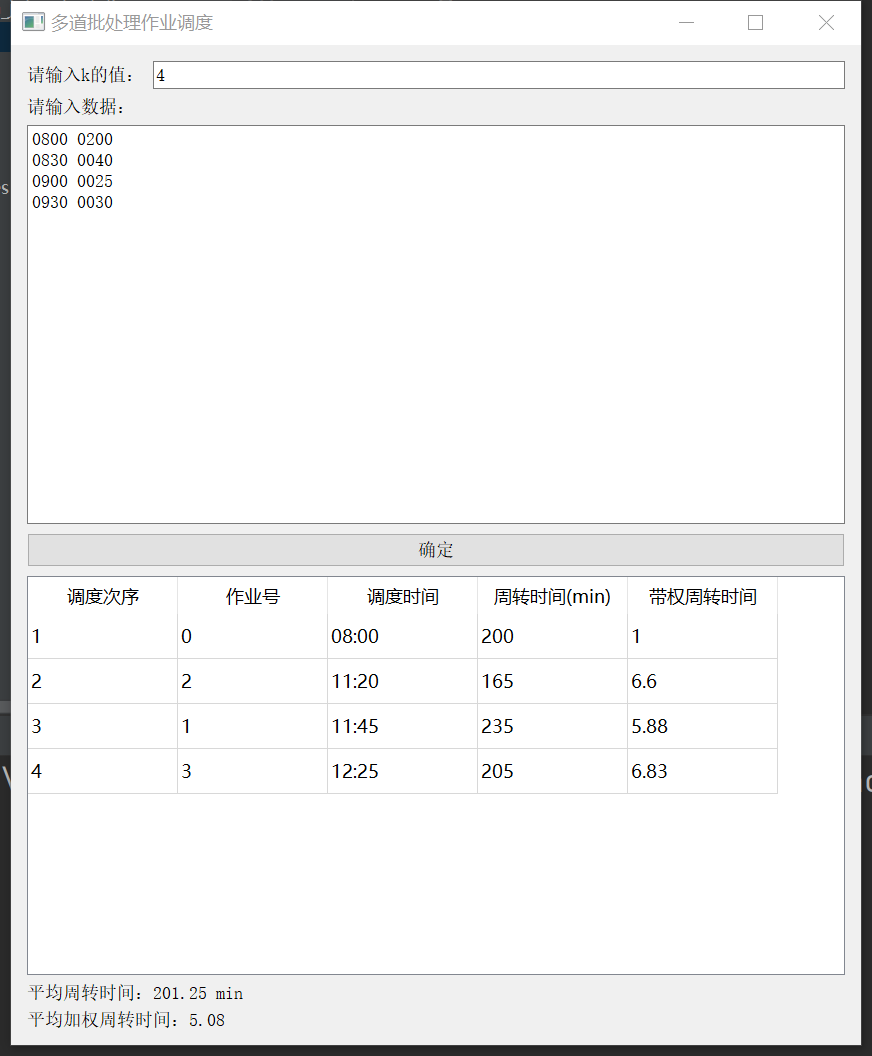
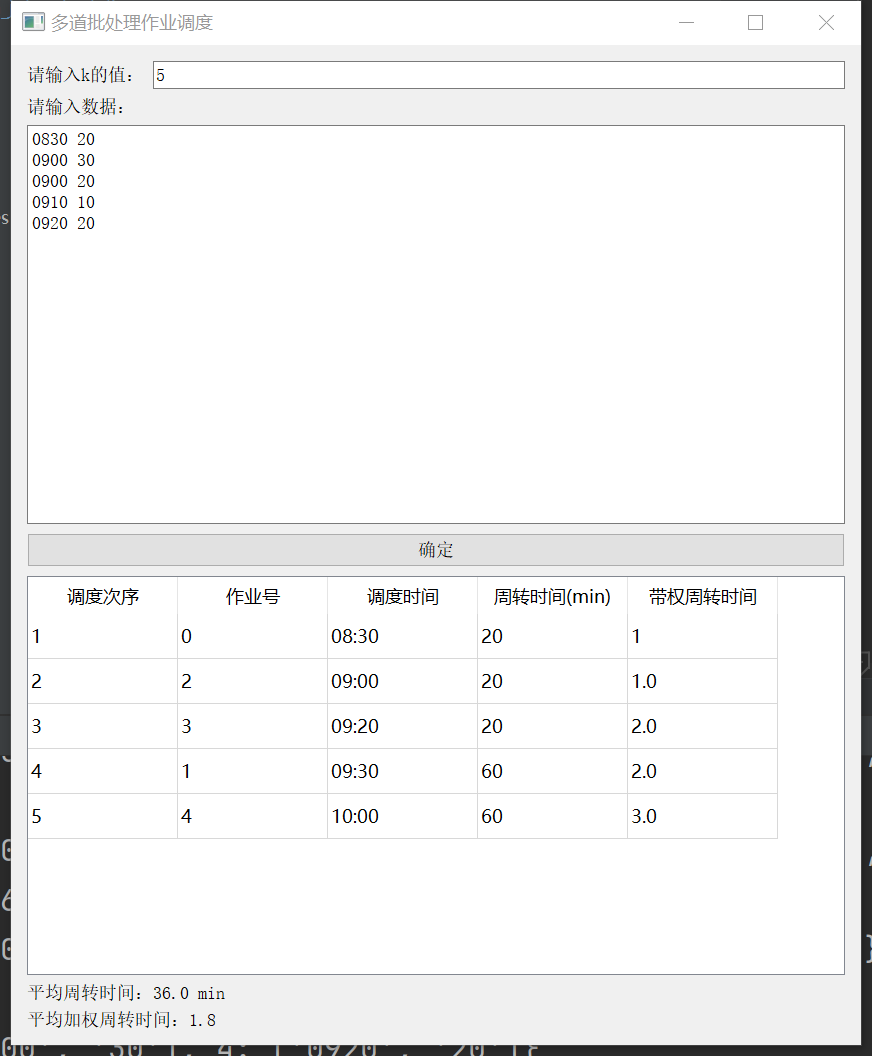
[master] update

diff --git a/assignment_2/ui.py b/assignment_2/ui.py
@@ -1,0 +1,80 @@
+import sys
+
+from PyQt5.QtWidgets import QWidget, QLabel, QLineEdit, QTextEdit, QHBoxLayout, QVBoxLayout, QPushButton, QApplication
+
+from assignment_22.bankers import bankers
+
+
+class UI(QWidget):
+    def __init__(self):
+        super().__init__()
+
+        self.initUI()
+
+    def initUI(self):
+
+        self.lbl_process = QLabel("请输入进程数：")
+        self.edit_process = QLineEdit()
+
+        self.lbl_resource = QLabel("请输入资源数：")
+        self.edit_resource = QLineEdit()
+
+        self.lbl_allocation = QLabel("请输入分配矩阵：")
+        self.edit_allocation = QTextEdit()
+
+        self.lbl_max_need = QLabel("请输入最大需求矩阵：")
+        self.edit_max_need = QTextEdit()
+
+        self.lbl_available = QLabel("请输入可用资源矩阵：")
+        self.edit_available = QTextEdit()
+
+        self.btn_ok = QPushButton("确定")
+        self.btn_ok.clicked.connect(self.on_click)
+
+        self.lbl_safe_sequences = QLabel("所有安全序列：")
+        self.edit_safe_sequences = QTextEdit()
+
+        hbox1 = QHBoxLayout()
+        hbox1.addWidget(self.lbl_process)
+        hbox1.addWidget(self.edit_process)
+
+        hbox2 = QHBoxLayout()
+        hbox2.addWidget(self.lbl_resource)
+        hbox2.addWidget(self.edit_resource)
+
+        vbox = QVBoxLayout()
+        vbox.addLayout(hbox1)
+        vbox.addLayout(hbox2)
+        vbox.addWidget(self.lbl_allocation)
+        vbox.addWidget(self.edit_allocation)
+        vbox.addWidget(self.lbl_max_need)
+        vbox.addWidget(self.edit_max_need)
+        vbox.addWidget(self.lbl_available)
+        vbox.addWidget(self.edit_available)
+        vbox.addWidget(self.btn_ok)
+        vbox.addWidget(self.lbl_safe_sequences)
+        vbox.addWidget(self.edit_safe_sequences)
+
+        self.setLayout(vbox)
+
+        self.setGeometry(300, 300, 850, 1000)
+        self.setWindowTitle("银行家算法")
+
+        self.show()
+
+    def on_click(self):
+        n_process = int(self.edit_process.text())
+        n_resource = int(self.edit_resource.text())
+        allocation_array = self.edit_allocation.toPlainText()
+        max_need_array = self.edit_max_need.toPlainText()
+        available_resource_array = self.edit_available.toPlainText()
+
+        safe_sequence = bankers(n_process, n_resource, allocation_array, max_need_array, available_resource_array)
+
+        self.edit_safe_sequences.setText(safe_sequence)
+
+
+if __name__ == "__main__":
+    app = QApplication(sys.argv)
+    ui = UI()
+    sys.exit(app.exec_())

diff --git a/assignment_1/multilane_batch_job_scheduling.py b/assignment_1/multilane_batch_job_scheduling.py
@@ -23,10 +23,16 @@ def response_ratio(current_time, cmt_t, r_t):
     return r
 
 
-def find_r_max(r_d):
+def find_r_max(r_d, dd):
     r_l = list(r_d.values())
     max_value = max(r_l)
-    key_of_max_value = [k for k, v in r_d.items() if v == max_value][0]
+    keys_of_max_value = [k for k, v in r_d.items() if v == max_value]
+    ddd = {}
+    for key in dd:
+        if key in keys_of_max_value:
+            ddd[key] = dd[key][1]
+    min_time = min(ddd.values())
+    key_of_max_value = [k for k, v in ddd.items() if v == min_time][0]
     return max_value, key_of_max_value
 
 
@@ -58,8 +64,10 @@ def MBJS(k, data):
             if current_time >= cmt_t:
                 flag = True
                 r_dict[i[0]] = response_ratio(current_time, cmt_t, r_t)
+        print(r_dict)
+        print(dd)
         if flag:
-            max_r, job_num = find_r_max(r_dict)
+            max_r, job_num = find_r_max(r_dict, dd)
             order_num += 1
             start_time = current_time
             start_time = start_time.strftime('%H:%M')
@@ -84,3 +92,9 @@ def MBJS(k, data):
     w_list = [i[4] for i in dispatch_table]
     avg_w = sum(w_list) / k
     return dispatch_table, round(avg, 2), round(avg_w, 2)
+
+
+if __name__ == "__main__":
+    k = 5
+    data = "0830 20\n0900 30\n0900 20\n0910 10\n0920 20"
+    MBJS(k, data)

diff --git a/assignment_2/bankers.py b/assignment_2/bankers.py
@@ -1,0 +1,22 @@
+def get_array(arr_str: str):
+    arr = arr_str.strip().split('\n')
+    arr = [arr_row.split() for arr_row in arr]
+    return arr
+
+
+def bankers(n_process: int, n_resource: int, allocation_array: str, max_need_array: str, available_resource_array: str):
+    allocation_array = get_array(allocation_array)
+    max_need_array = get_array(max_need_array)
+    available_resource_array = get_array(available_resource_array)
+
+    return "123"
+
+
+if __name__ == "__main__":
+    n_process = 5
+    n_resource = 4
+    allocation_array = "0 0 1 2\n1 0 0 0\n1 3 5 4\n0 6 3 2\n0 0 1 4"
+    max_need_array = "0 0 1 2\n1 7 5 0\n2 3 5 6\n0 6 5 2 \n0 6 5 6"
+    available_resource_array = "1 5 2 0"
+
+    bankers(n_process, n_resource, allocation_array, max_need_array, available_resource_array)

diff --git a/assignment_2/test.py b/assignment_2/test.py
@@ -1,0 +1,7 @@
+import itertools
+
+n = 5
+nums = list(range(1, n+1))
+permutations = list(itertools.permutations(nums))
+
+print(len(permutations))
